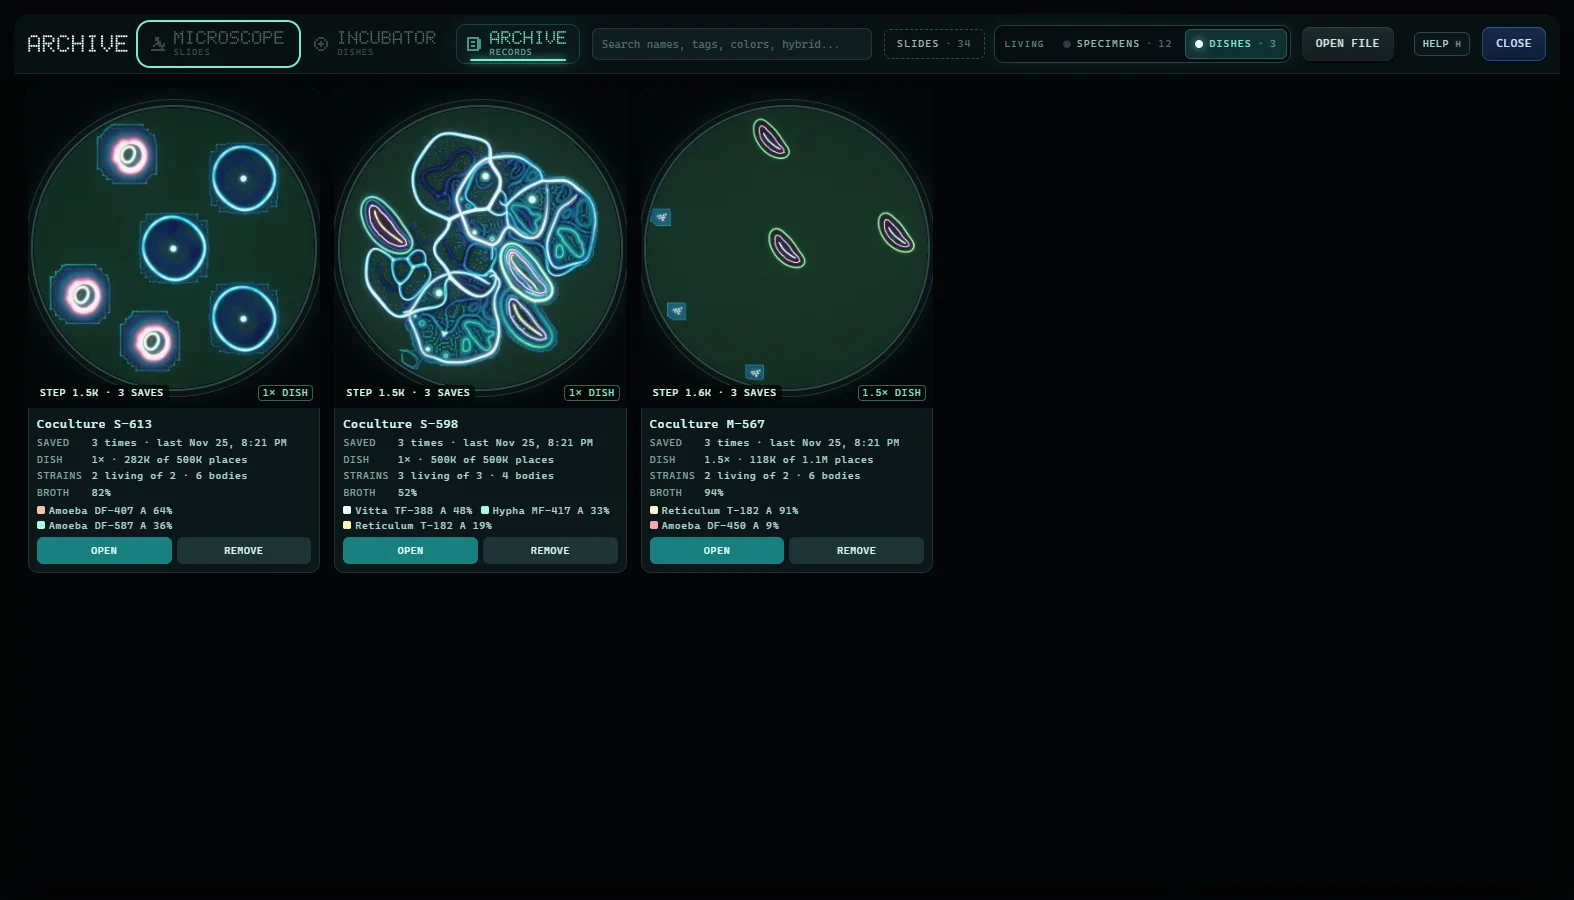
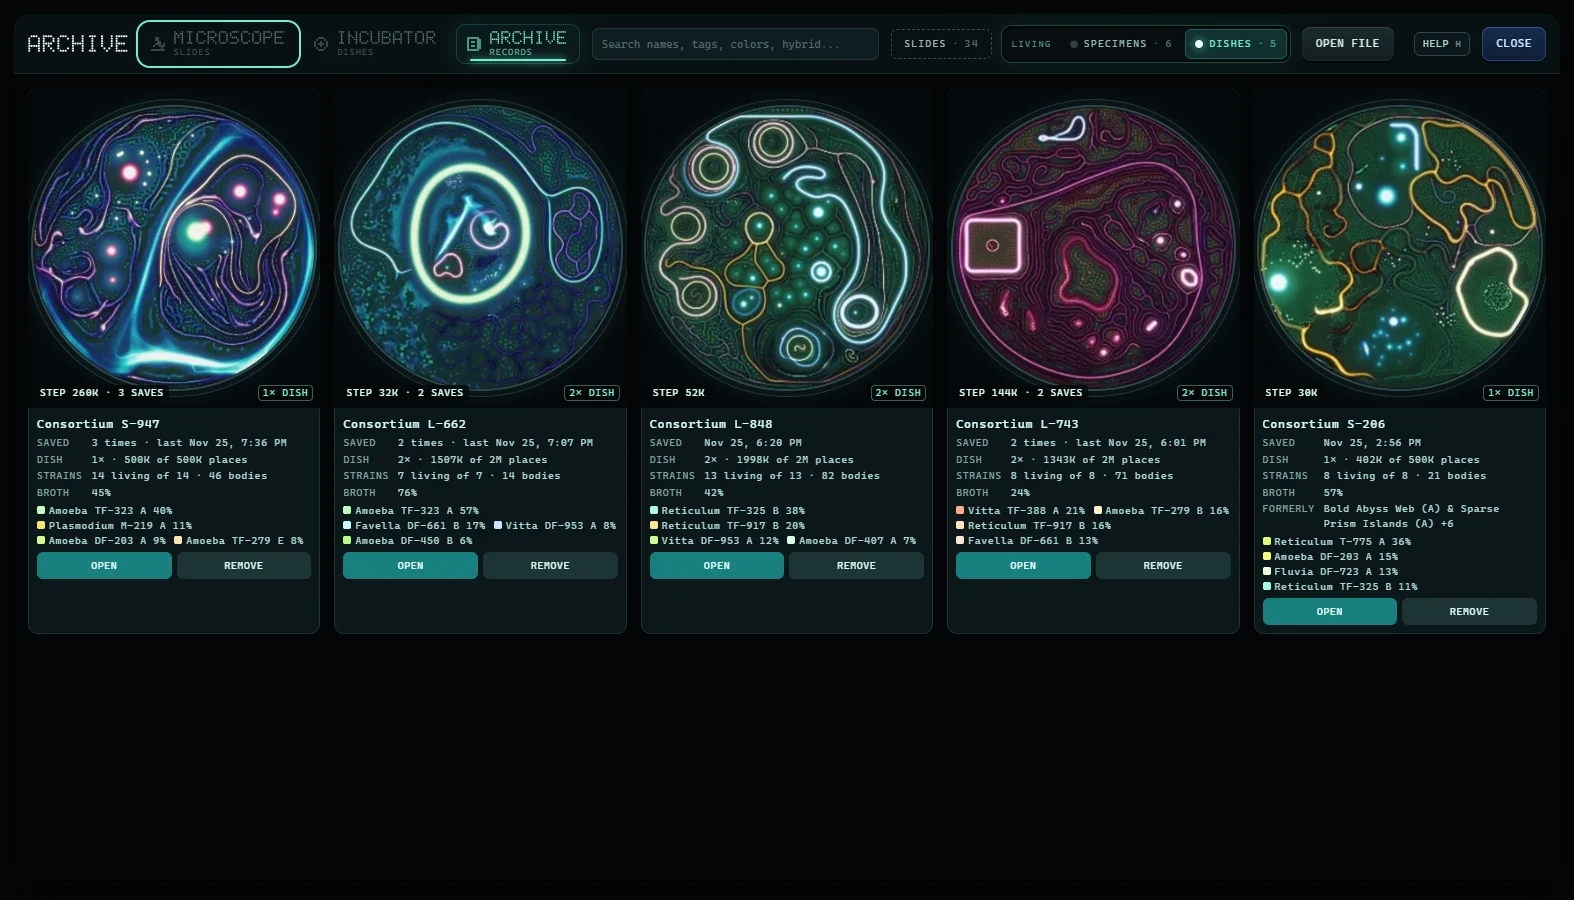
Show real dishes in the README's pictures
The Incubator picture, the close-up and the Archive view now come from
two dishes grown in the app, Consortium L-848 and Consortium L-743,
instead of test dishes. The guide's Incubator close-up shows L-848's
chain of golden cells.

diff --git a/README.md b/README.md
@@ -29,18 +29,18 @@ life that holds together as individuals.
 
 ## The lab
 
-<p align="center"><img src="docs/screenshots/incubator-room.webp" alt="The Incubator room: a 2× dish of green broth inside a ringed porthole holding eighteen copies of two organisms, four round cell-filled bodies and fourteen glowing leaf-shaped ones, large and small, with dot-matrix readouts on the left, a deck of specimen cards standing beside the dish, and the dark control console on the right with the DISH switch set to 2×" width="80%"></p>
+<p align="center"><img src="docs/screenshots/incubator-room.webp" alt="The Incubator room showing Consortium L-848, a 2× dish of thirteen strains at step 52,000: pink and yellow rings, a chain of golden cells, glowing blue nuclei in green chambers and long white membranes, inside a ringed porthole, with dot-matrix readouts on the left, the specimen deck beside the dish and the control console on the right" width="80%"></p>
 
 <table>
   <tr>
     <td><img src="docs/screenshots/cutting-bench.webp" alt="The cutting bench with six bodies of an organism outlined, one ring-shaped body chosen" width="100%"></td>
-    <td><img src="docs/screenshots/incubator-zoom.webp" alt="The Incubator zoomed in on a cell-filled body and a leaf-shaped body" width="100%"></td>
-    <td><img src="docs/screenshots/archive-dishes.webp" alt="The Archive's DISHES view: three saved dishes shown round, each with its strains and saves" width="100%"></td>
+    <td><img src="docs/screenshots/incubator-zoom.webp" alt="A close-up of Consortium L-743 at step 144,000: a glowing square body with a small ring inside, in a maze of magenta and orange trails" width="100%"></td>
+    <td><img src="docs/screenshots/archive-dishes.webp" alt="The Archive's DISHES view: five saved dishes shown round, each with its step, size, strains and saves" width="100%"></td>
   </tr>
   <tr>
     <td align="center"><em>Cutting a body</em></td>
-    <td align="center"><em>Zoomed into a dish</em></td>
-    <td align="center"><em>Saved dishes</em></td>
+    <td align="center"><em>A square body in Consortium L-743</em></td>
+    <td align="center"><em>Saved dishes in the Archive</em></td>
   </tr>
 </table>
 

diff --git a/docs/GUIDE.md b/docs/GUIDE.md
@@ -5,7 +5,7 @@ works inside, see [ARCHITECTURE.md](ARCHITECTURE.md); for the science, [RESEARCH
 
 ## The three rooms
 
-<p align="center"><img src="screenshots/incubator-room.webp" alt="The Incubator room: a 2× dish of green broth inside a ringed porthole holding eighteen copies of two organisms, four round cell-filled bodies and fourteen glowing leaf-shaped ones, large and small, with dot-matrix readouts on the left, a deck of specimen cards standing beside the dish, and the dark control console on the right with the DISH switch set to 2×" width="80%"></p>
+<p align="center"><img src="screenshots/incubator-room.webp" alt="The Incubator room showing Consortium L-848, a 2× dish of thirteen strains: pink and yellow rings, a chain of golden cells, glowing blue nuclei in green chambers and long white membranes, inside a ringed porthole, with readouts on the left, the specimen deck beside the dish and the control console on the right" width="80%"></p>
 
 You work the night shift in a culture lab (the story is in [WORLD.md](WORLD.md)). The room bar at the top of the screen moves between three rooms:
 
@@ -97,7 +97,7 @@ Breeding never changes a save file. Children are new organisms until you save th
 
 ## The Incubator
 
-<p align="center"><img src="screenshots/incubator-zoom.webp" alt="The Incubator zoomed in 3.3 times on a 2× dish: a cell-filled round body with a membrane and tail, beside a leaf-shaped body with green, pink and white rims, seen through the round porthole with the SHOW ALL key at the bottom left" width="80%"></p>
+<p align="center"><img src="screenshots/incubator-cells.webp" alt="The Incubator zoomed in 2.4 times on Consortium L-848: a chain of golden cell walls around glowing blue nuclei, among green chambers, with a bright white ring at the right and the SHOW ALL key at the bottom left" width="80%"></p>
 
 The two pages are two levels of selection. In Solo and Batch you choose bodies for their structure. In the Incubator, specimens of those bodies compete for food, and only the ones that can sustain themselves last.
 
